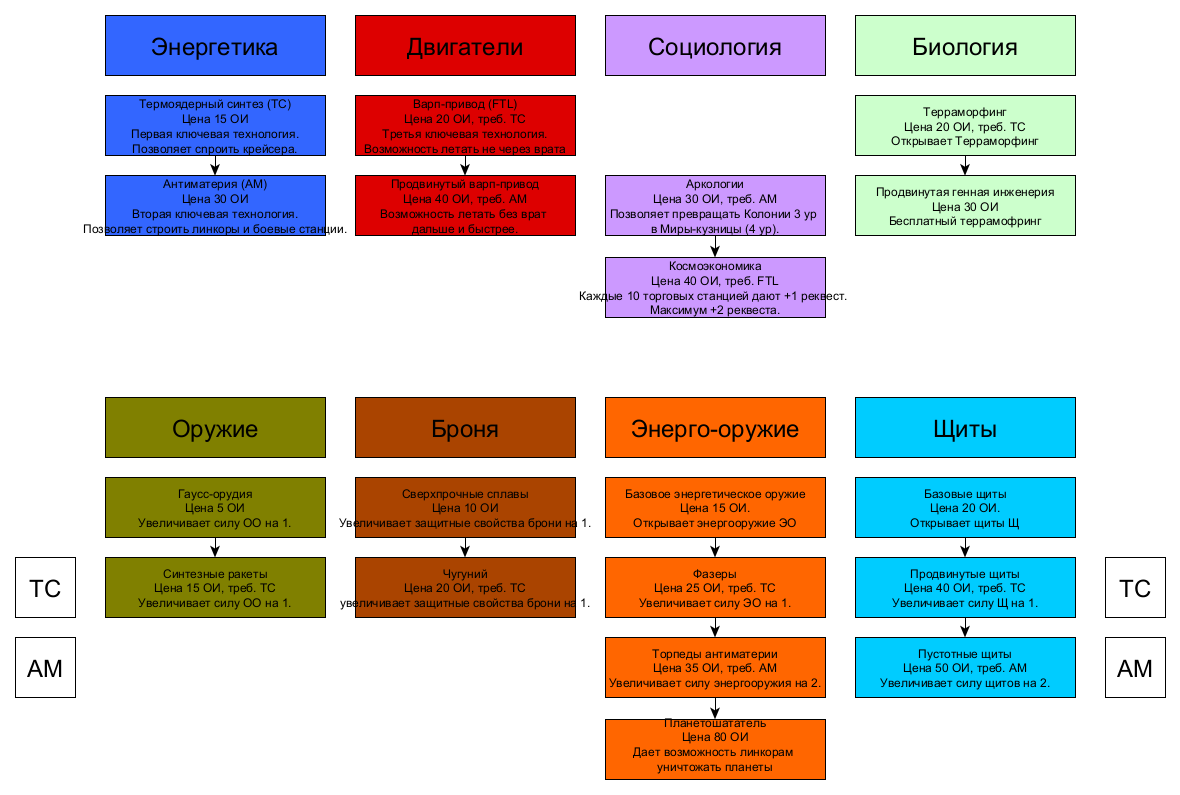
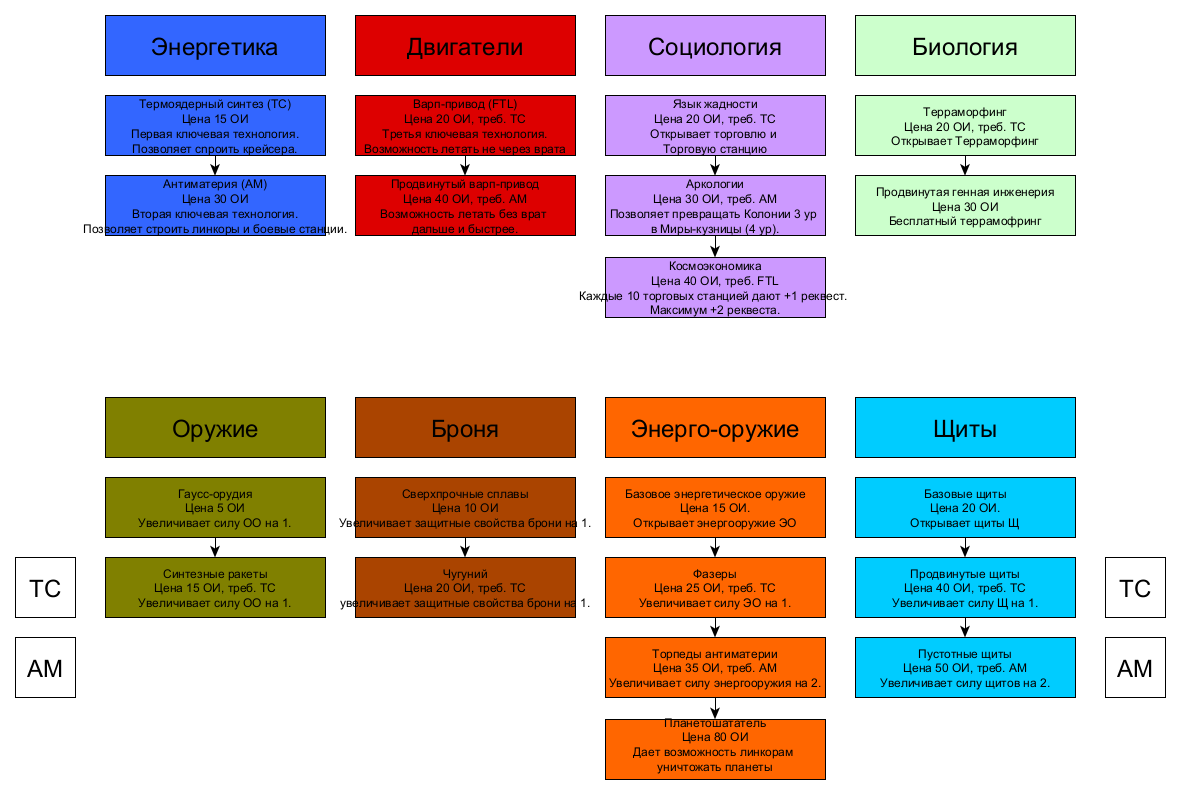
pokras - торговля

Changed region(s): [[0.4881, 0.1208, 0.7017, 0.2113]]

diff --git a/custom/pokras-spc/rules.js b/custom/pokras-spc/rules.js
@@ -80,7 +80,7 @@ const EMOJI_IMAGES = {
   // мирные корабли
   "Колонизатор": "🔰",
   "Строитель": "🛠",
-  // "Торговец": "💰",
+  "Торговец": "💰",
 
   // военные корабли
   "Десантный_корабль": "⚔",
@@ -106,6 +106,7 @@ const OBJ_CATEGORIES = {
     Мирные: [
       "Колонизатор",
       "Строитель",
+      "Торговец",
     ],
     Военные: [
       "Фрегат",
@@ -171,6 +172,7 @@ const EFFECT_LISTS = {
   static: [
     "Холодная_родина",
     
+    "Предел_торговли",
     "Еда",
 
     // "Сила ОО",
@@ -208,8 +210,9 @@ const DICT_COMMON = {
   // колонии
 
   "Столица": {
+    Предел_торговли: 20,
     [KW.SPRITE_SIZE]: 50,
-    [KW.DESC]: `техническая колония рядом со звездой, указывает столицу государства`,
+    [KW.DESC]: `техническая колония рядом со звездой, указывает столицу государства и применяющая обще-государственные эффекты`,
   },
 
   "Молодая_колония": {
@@ -273,6 +276,11 @@ const DICT_COMMON = {
       Уран: 5
     },
     [KW.DESC]: `может строить станции в данной системе`
+  },
+  Торговец: {
+    // [KW.COST]: {
+    // },
+    [KW.DESC]: `перевозит ресурсы при торговле, создается бесплатно`
   },
 
   // ВОЕННЫЕ КОРАБЛИ
@@ -342,7 +350,8 @@ const DICT_COMMON = {
       Кремний: 20,
       Уран: 5
     },
-    [KW.DESC]: `увеличивает лимит для торговли на 50 ед. каждого ресурса`,
+    Предел_торговли: 40,
+    [KW.DESC]: `увеличивает лимит для торговли на 40 ед. каждого ресурса. Треб. "Язык жадности"`,
   },
   Боевая_станция: {
     [KW.COST]: {
@@ -471,7 +480,6 @@ const TECH_EFFECTS = {
       "Здание: Добывающая_станция",
       "Здание: Научная_станция",
       "Здание: Верфь",
-      "Здание: Торговая_станция",
 
       [
         "Столица",
@@ -499,11 +507,15 @@ const TECH_EFFECTS = {
   },
   Социология: {
     [KW.COST]: {
-      Наука: "20+ЛВЛ*10"
+      Наука: "10+ЛВЛ*10"
     },
     1: [
+      "Юнит: Торговец",
+      "Здание: Торговая_станция",
+    ],
+    2: [
       "Здание: Мир-кузница",
-    ]
+    ],
   },
   Биология: {
     [KW.COST]: {

diff --git a/custom/pokras-spc/system.md b/custom/pokras-spc/system.md
@@ -1,4 +1,4 @@
-### *Правила v1.3.0*
+### *Правила v1.3.1*
 
 ### *Историческая справка*
 
@@ -97,7 +97,9 @@
 
 #### Торговля
 
-Торговать ресурсами можно только с соседними империями, или со всеми если есть FTL-тех. Предел торговли определяется торговыми станциями.
+Торговать можно только после изучения технологии "Язык жадности".
+
+Торговать ресурсами можно только с соседними империями, или со всеми если есть FTL-тех. Предел торговли определяется торговыми станциями. Без торговых станций предел равен 20 ед.
 
 ### *3\. Корабли*
 
@@ -113,6 +115,7 @@
 |--------|---------------|---|
 | Колонизатор 🔰 | М: 35; К: 20; РЭ: 5 | может колонизировать планеты, при колонизации исчезает. При проведении Терраформирования (после изучения соответствующей технологии) не исчезает |
 | Строитель 🛠 | М: 20; К: 20; РЭ: 5 | может строить станции в данной системе |
+| Торговец 💰 | Нет | перевозит ресурсы при торговле, создается бесплатно |
 
 Не могут сражаться. При встрече с вражеским военным кораблем погибают.
 
@@ -163,7 +166,7 @@
 | Добывающая станция ⛏ | М: 25; К: 25; РЭ: 2 | строится без колонии на планете |
 | Научная станция 🔬 | М: 35; К: 60; РЭ: 20 | дает +2 очка исследований |
 | Верфь ⚓ | М: 50; К: 40; РЭ: 5 | дает возможность строить 1 корабль за реквест в данной системе. Если в системе 2 дока, то за реквест можно построить 2 корабля итд |
-| Торговая станция 🛒 | М: 20; К: 20; РЭ: 5 | увеличивает лимит для торговли на 50 ед. каждого ресурса |
+| Торговая станция 🛒 | М: 20; К: 20; РЭ: 5 | увеличивает лимит для торговли на 40 ед. каждого ресурса. Треб. "Язык жадности" |
 | Боевая станция 🛡 | М: 75; К: 35; РЭ: 20 | защищает систему от вторжения, имеет вооружение линкора, но дешевле его в 2 раза. Требуется "Антиматерия" |
 
 ### *6\. Технологии*
@@ -259,6 +262,10 @@
 Бесплатный террамофринг  
   
 СОЦИОЛОГИЯ
+
+Язык жадности
+Цена 20 ОИ, треб. ТС
+Открывает торговлю и Торговую станцию
   
 Аркологии  
 Цена 30 ОИ, треб. АМ  
